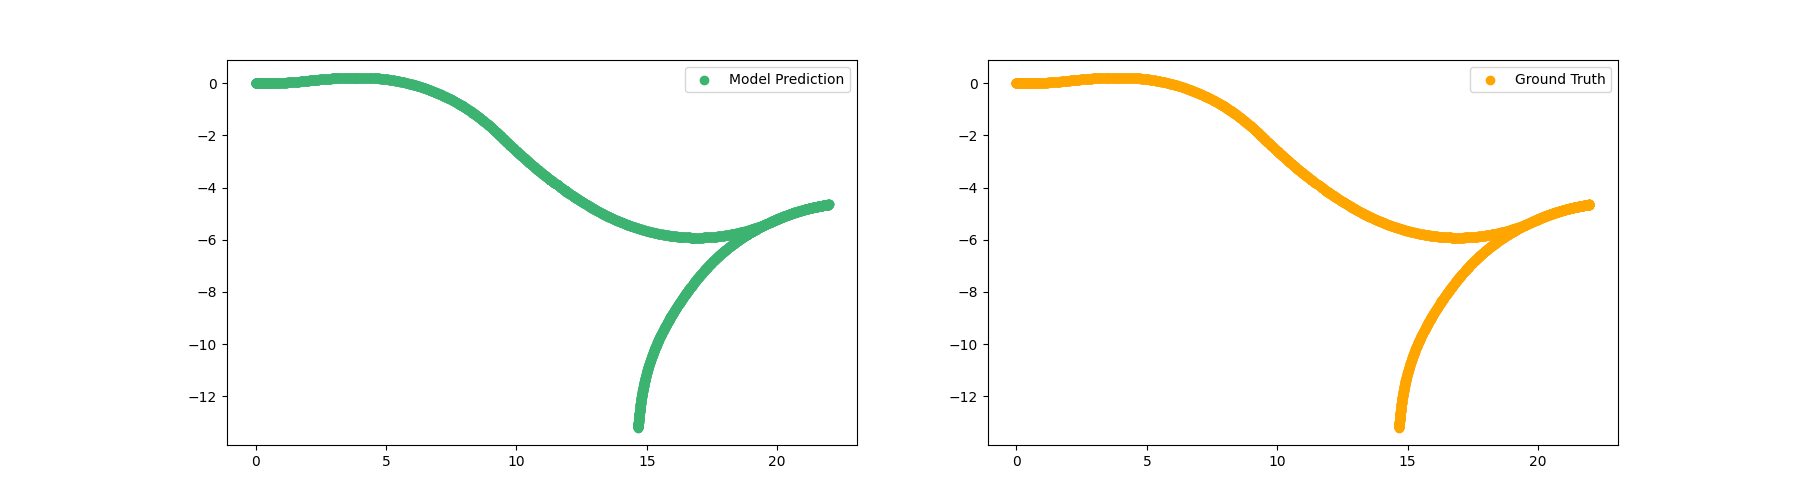
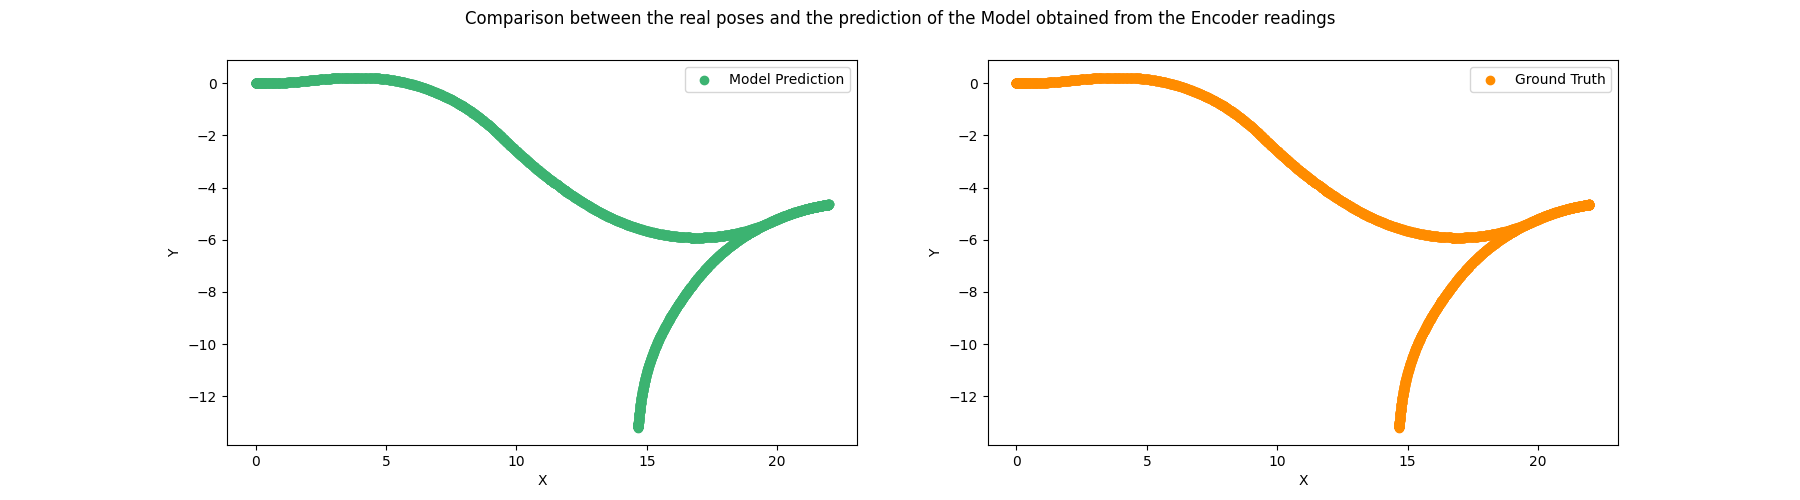
better structure + general improvements

diff --git a/TricycleRobotCalibration/Calibration/main.py b/TricycleRobotCalibration/Calibration/main.py
@@ -26,33 +26,12 @@ INITIAL_STEER_OFFSET = conf["INITIAL_STEER_OFFSET"]
 LASER_WRT_BASE_X = conf["LASER_WRT_BASE_X"]
 LASER_WRT_BASE_ANGLE = conf["LASER_WRT_BASE_ANGLE"]
 
-def model_prediction(robot_pose, steer_tick, current_tract_tick, next_tract_tick, kine_param):
-    # with this function you use the model of the robot to predict the next state
-    x_rob, y_rob, theta_rob = robot_pose
-    K_steer = kine_param["K_STEER"]
-    K_tract = kine_param["K_TRACT"] 
-    axis_length = kine_param["AXIS_LENGTH"] 
-    steer_offset = kine_param["STEER_OFFSET"]
-    # x_sens, y_sens, theta_sens = kine_param
+def checkModelValidity(predicted_poses, data):
+    predicted_poses = np.array(predicted_poses)
+    data.plotModelData(predicted_poses)
 
-    # print(f"kine param: {K_steer}, {K_tract}, {axis_length}, {steer_offset}")
-    steering_angle = get_steering_angle(steer_tick, K_steer)
-    traction_distance = get_traction_distance(current_tract_tick, next_tract_tick, K_tract)
-
-    linear_velocity = traction_distance
-    angular_velocity = steering_angle
-
-    # print(f"s: {steering_angle}, t: {traction_distance}")
-
-    # kinematic model of the robot with the elimination of dt
-
-    dx = np.cos(steering_angle)*np.cos(theta_rob) * traction_distance
-    dy = np.cos(steering_angle)*np.sin(theta_rob) * traction_distance
-    dtheta = (np.sin(steering_angle) / axis_length) * traction_distance
-    dphi = steering_angle
-
-    return dx.item(), dy.item(), dtheta.item(), dphi.item() # displacement dato dalla predizione del modello
-
+    if np.allclose(predicted_poses[:, :2], data.robot_poses[:-1, :2], atol=1e-6):
+        print("The prediction given by the model is correct")
 
 def main():
 
@@ -64,42 +43,14 @@ def main():
 
     for i in range(data.length-1):
         # i-th measurement
-        robot_pose = data.robot_poses[i]
-        steer_tick = data.steer_ticks[i]
-        tract_tick = data.tract_ticks[i]
-        next_tract_tick = data.tract_ticks[i+1]
-
-        # print(f" i-th measurement: {robot_pose}, {steer_tick}, {tract_tick}, {next_tract_tick}")
+        robot_pose, steer_tick, tract_tick, next_tract_tick = data.getMeasurement(i)
+        dx, dy, dtheta, _ = robot.ModelPrediction(steer_tick, tract_tick, next_tract_tick)
         
-        dx, dy, dtheta, dphi = model_prediction(
-            robot_pose, steer_tick, tract_tick, next_tract_tick, robot.kinematic_parameters)
-        
-        # print(f" model_prediction: {dx}, {dy}, {dtheta} \n")
-        measurement = np.array([[dx, dy, dtheta]])
-
-        # print(f"Movements: {predicted_poses.shape}, measurement: {measurement.shape}")
-        # get next poses of the robot and of the sensor
-        
-        r_T = v2T(measurement.flatten())
-        w_T_r = robot.getTransformation()
-
-
-        robot.pose = T2v(w_T_r @ r_T)
+        prediction = np.array([[dx, dy, dtheta]]) # that's the prediction of the model aka how much you have moved from your previous reading
+        robot.updatePose(prediction)
         predicted_poses.append(robot_pose.copy())
 
-    predicted_poses = np.array(predicted_poses)
-    fig, axs = plt.subplots(1,2)
-
-    axs[0].scatter(predicted_poses[:, 0], predicted_poses[:, 1], color="mediumseagreen", label="Model Prediction")
-    axs[1].scatter(data.robot_poses[:, 0], data.robot_poses[:, 1], color="orange", label="Ground Truth")
-    axs[0].set_aspect("equal")
-    axs[1].set_aspect("equal")
-    axs[0].legend()
-    axs[1].legend()
-    fig.set_figheight(5)
-    fig.set_figwidth(18)
-    plt.savefig(PICS_PATH / "model_vs_gt.png")
-    plt.close()
+    checkModelValidity(predicted_poses, data)
 
 if __name__ == "__main__":
     main()

diff --git a/TricycleRobotCalibration/Utils/robot.py b/TricycleRobotCalibration/Utils/robot.py
@@ -2,7 +2,7 @@ import os
 import numpy as np
 from pathlib import Path
 from yaml import safe_load
-from TricycleRobotCalibration.Utils.utils import getRotationMatrix, v2T, T2v
+from TricycleRobotCalibration.Utils.utils import getRotationMatrix, v2T, T2v, get_steering_angle, get_traction_distance
 
 this_dir = Path(__file__).resolve().parents[1]
 with open(this_dir / 'config.yml', 'r') as file:
@@ -33,12 +33,40 @@ class Tricycle:
     def getTransformation(self):
         return v2T(self.pose.flatten())
     
-    def update(self, new_pose, new_kinematic_parameters):
-        self.pose = new_pose
-        self.kinematic_parameters = new_kinematic_parameters
+    def updatePose(self, new_pose):
+        r_T_m = v2T(new_pose.flatten()) # movement wrt the robot RF
+        w_T_r = self.getTransformation() # robot wrt world RF
+        self.pose = T2v(w_T_r @ r_T_m)
+    
+    def updateKinematicParam(self, K_steer, K_tract, axis_length, steer_offset):
+        self.kinematic_parameters = {
+            "K_STEER": K_steer,
+            "K_TRACT": K_tract,
+            "AXIS_LENGTH": axis_length,
+            "STEER_OFFSET": steer_offset,
+        }
     
     def Robot2Sensor(self):
         # transformation that brings you from the world frame to the sensor RF
         w_T_r = self.getTransformation() # robot frame wrt world
         r_T_s = v2T(self.sensor_pose) # sensor frame wrt robot
         return w_T_r @ r_T_s
+    
+    def ModelPrediction(self, steer_tick, current_tract_tick, next_tract_tick):
+
+        _, _, theta_rob = self.pose
+
+        K_steer = self.kinematic_parameters["K_STEER"]
+        K_tract = self.kinematic_parameters["K_TRACT"] 
+        axis_length = self.kinematic_parameters["AXIS_LENGTH"]
+
+        steering_angle = get_steering_angle(steer_tick, K_steer)
+        traction_distance = get_traction_distance(current_tract_tick, next_tract_tick, K_tract)
+
+        # this is the kinematic model of the robot with the elimination of dt
+        dx = np.cos(steering_angle)*np.cos(theta_rob) * traction_distance
+        dy = np.cos(steering_angle)*np.sin(theta_rob) * traction_distance
+        dtheta = (np.sin(steering_angle) / axis_length) * traction_distance
+        dphi = steering_angle
+
+        return dx.item(), dy.item(), dtheta.item(), dphi.item()

diff --git a/TricycleRobotCalibration/Utils/dataset.py b/TricycleRobotCalibration/Utils/dataset.py
@@ -77,6 +77,28 @@ class Dataset:
 		plt.show()
 		plt.close()
 
+	def plotModelData(self, predicted_poses):
+		# plot the prediction given by the model from the encoders measurement and the real position
+		fig, axs = plt.subplots(1,2)
+		axs[0].scatter(predicted_poses[:, 0], predicted_poses[:, 1], color="mediumseagreen", label="Model Prediction")
+		axs[1].scatter(self.robot_poses[:, 0], self.robot_poses[:, 1], color="darkorange", label="Ground Truth")
+		axs[0].set_aspect("equal")
+		axs[1].set_aspect("equal")
+		axs[0].legend()
+		axs[1].legend()
+		axs[0].set_xlabel("X")
+		axs[0].set_ylabel("Y")
+		axs[1].set_xlabel("X")
+		axs[1].set_ylabel("Y")
+		fig.set_figheight(5)
+		fig.set_figwidth(18)
+		fig.suptitle("Comparison between the real poses and the prediction of the Model obtained from the Encoder readings")
+		plt.savefig(PICS_PATH / "model_vs_gt.png")
+		plt.close()
+
+	def getMeasurement(self, idx):
+		# use this to get the idx-th measurement composed by:
+		return self.robot_poses[idx], self.steer_ticks[idx], self.tract_ticks[idx], self.tract_ticks[idx+1]
 		
 if __name__ == "__main__":
 	data = Dataset()
